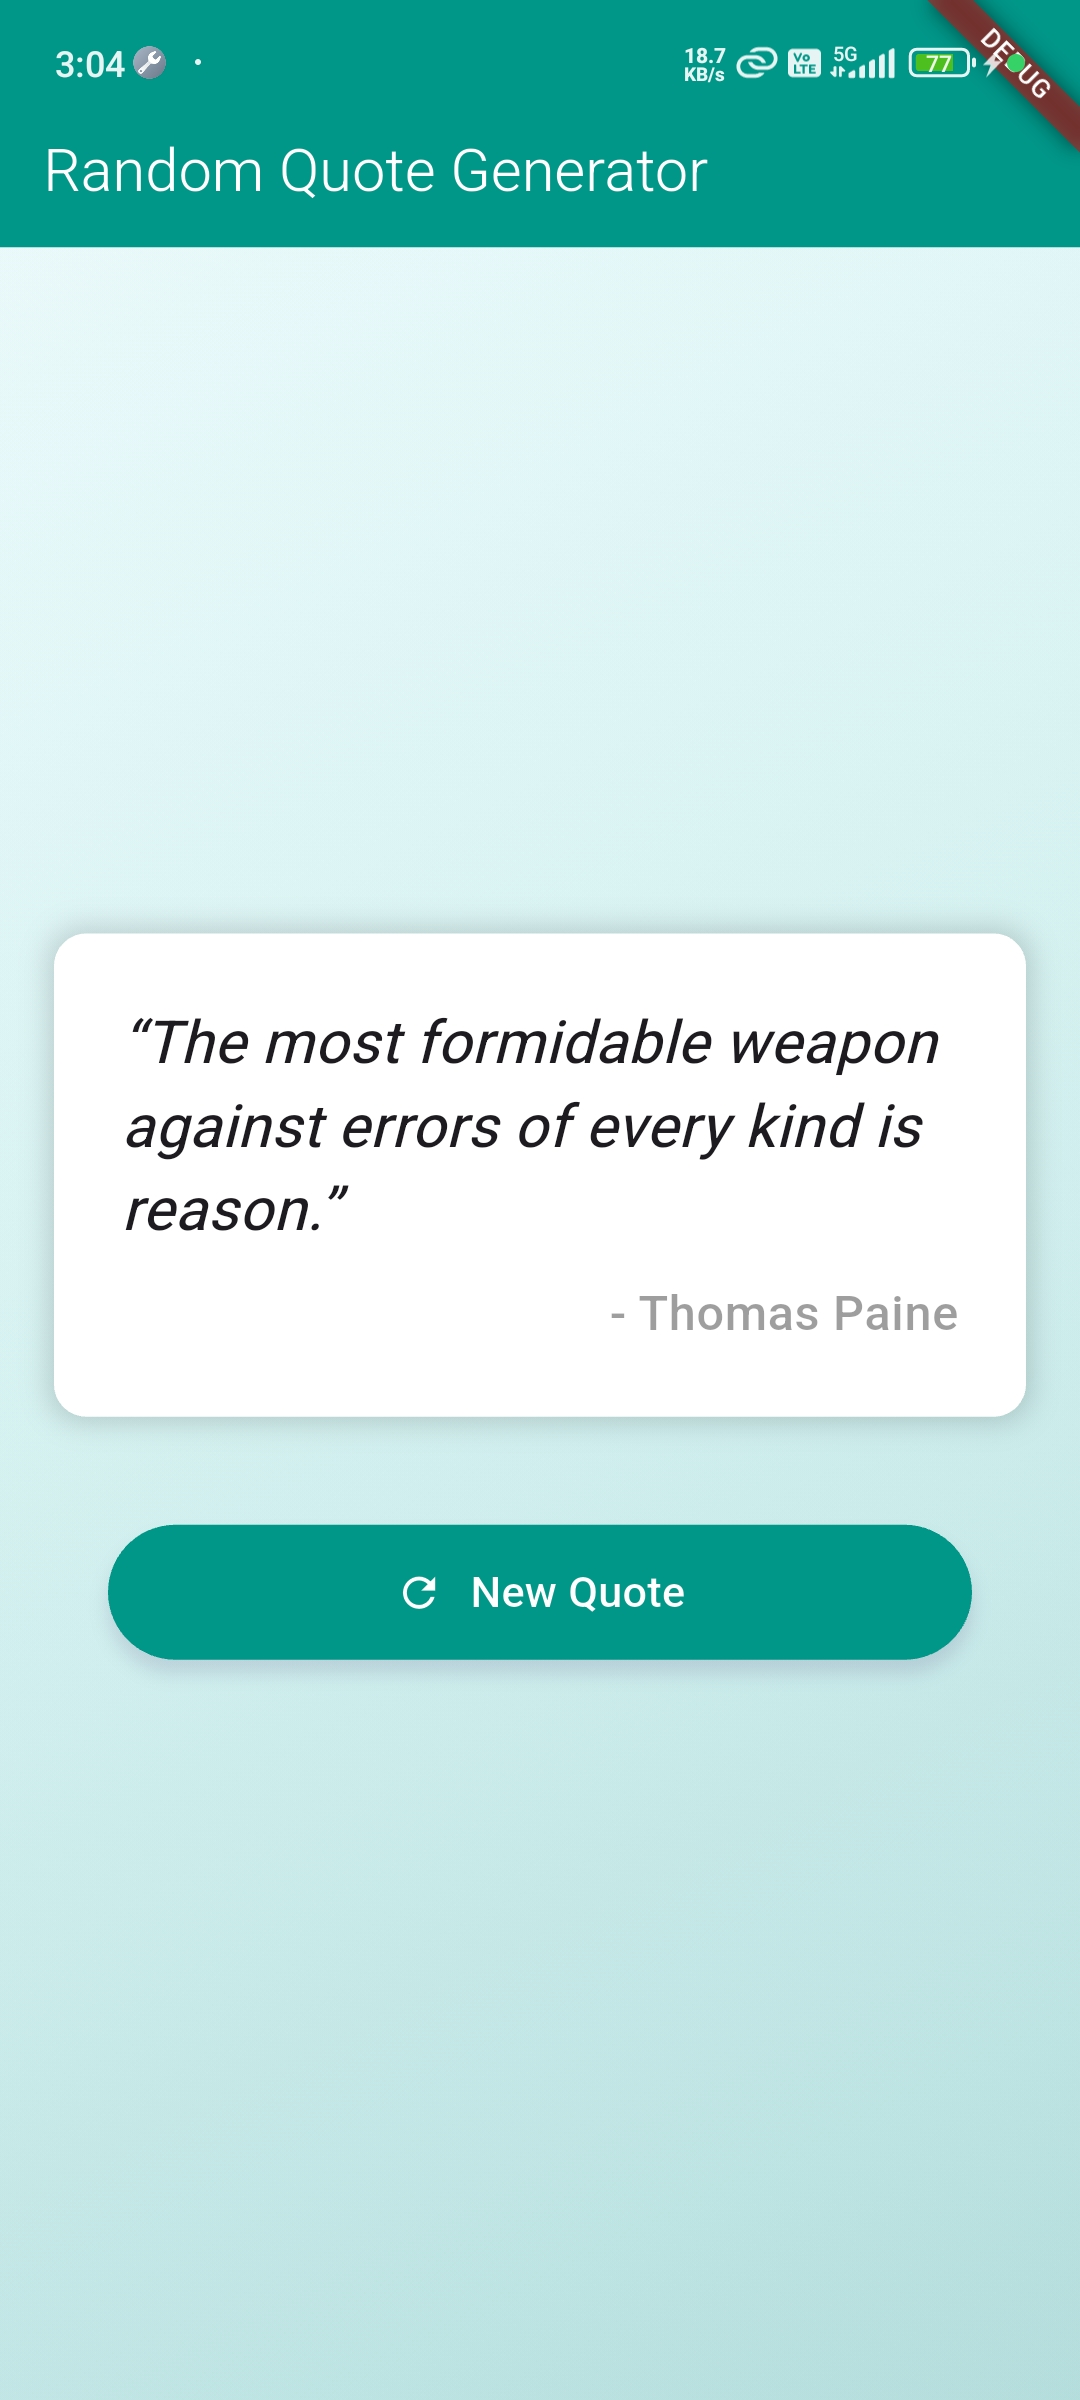
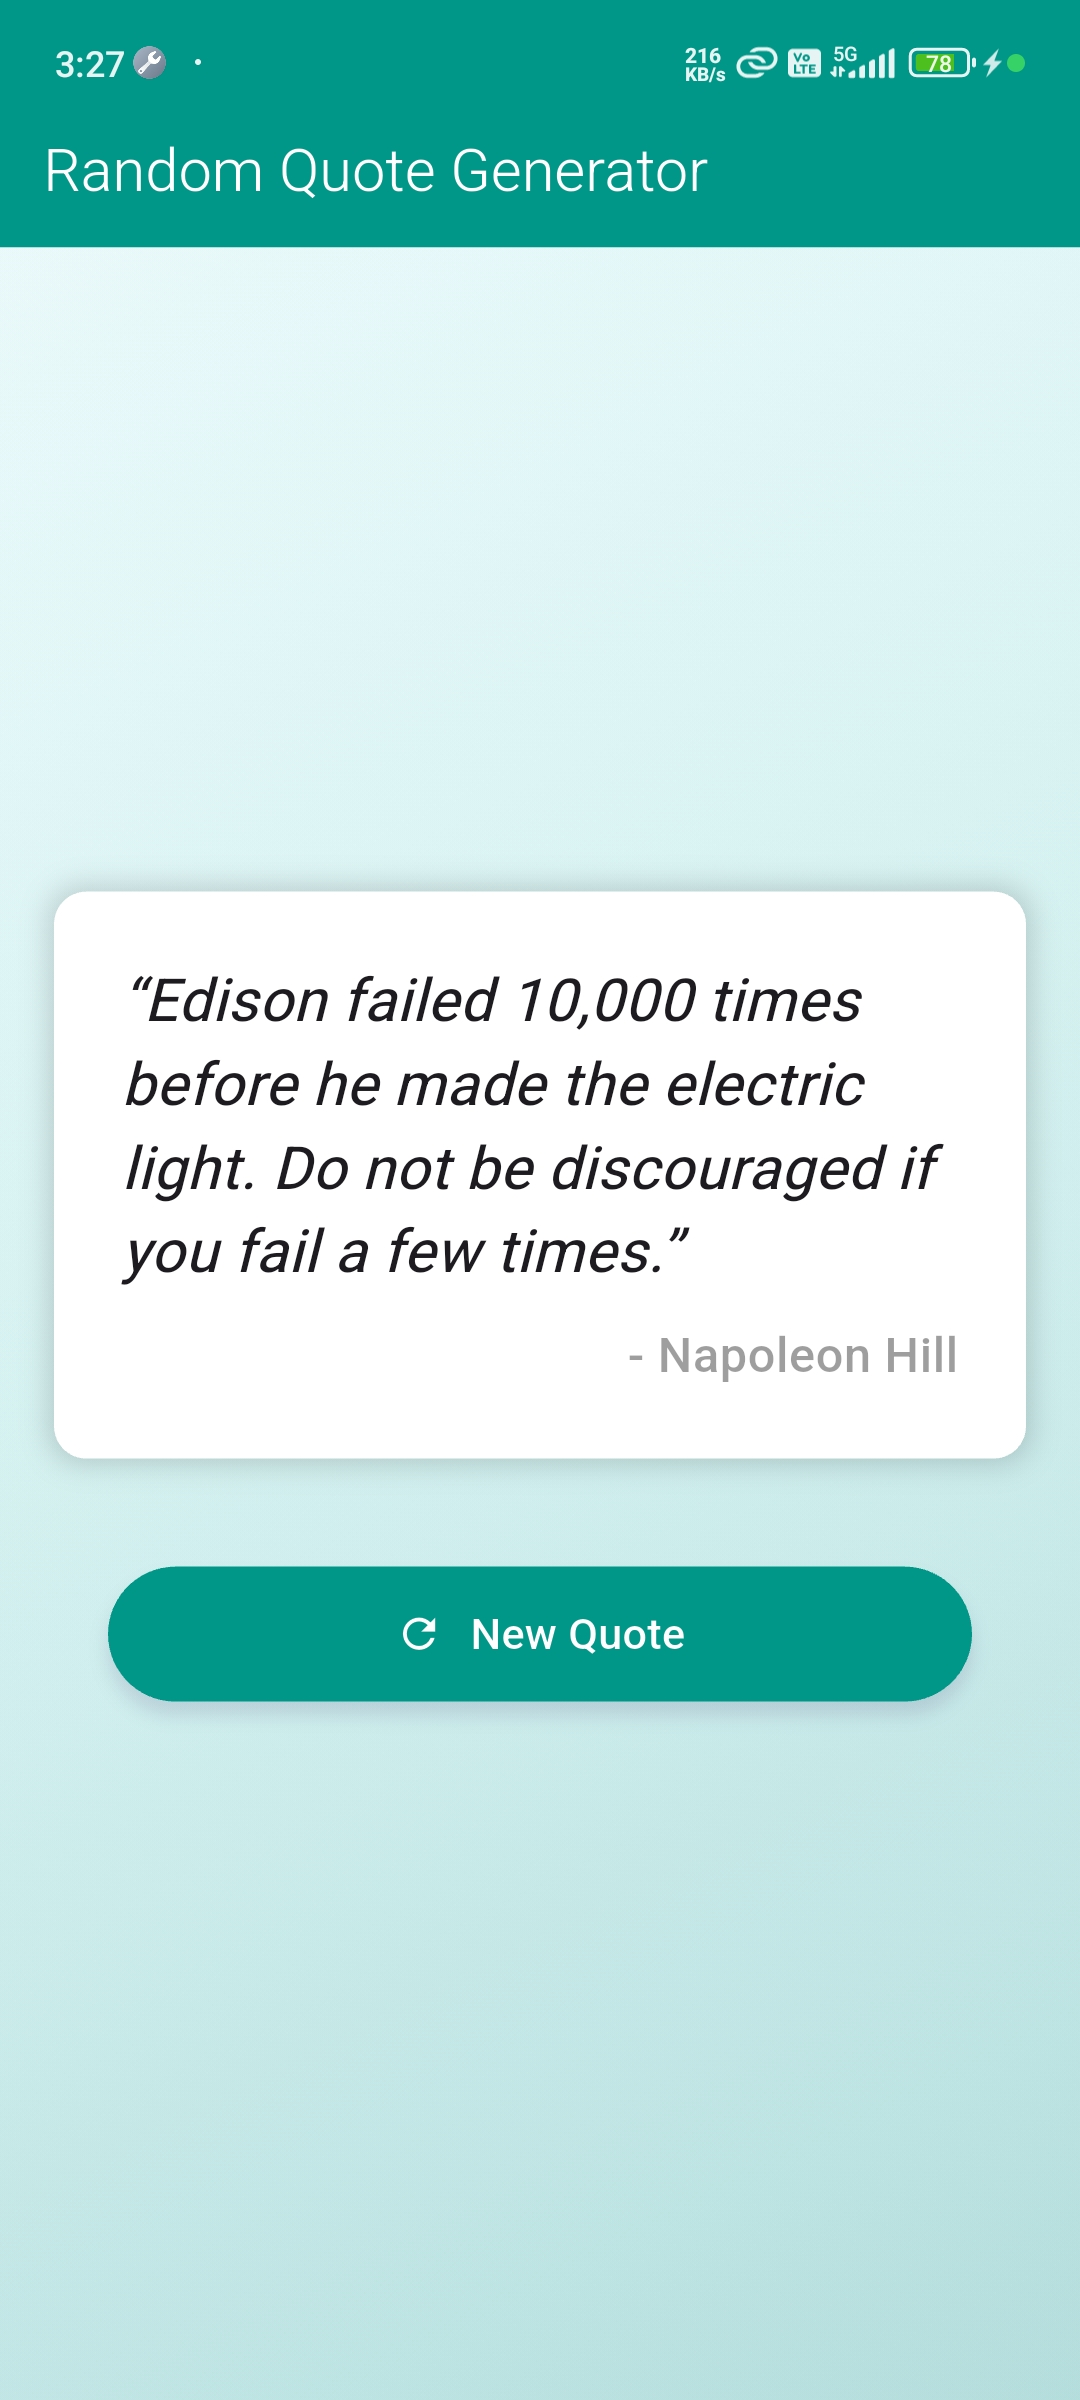
replaced screenshots

diff --git a/lib/main.dart b/lib/main.dart
@@ -22,6 +22,6 @@ class MyApp extends StatelessWidget {
 
   @override
   Widget build(BuildContext context) {
-    return MaterialApp(home: ProviderScope(child: QuoteScreen()));
+    return MaterialApp(debugShowCheckedModeBanner: false, home: ProviderScope(child: QuoteScreen()),);
   }
 }
